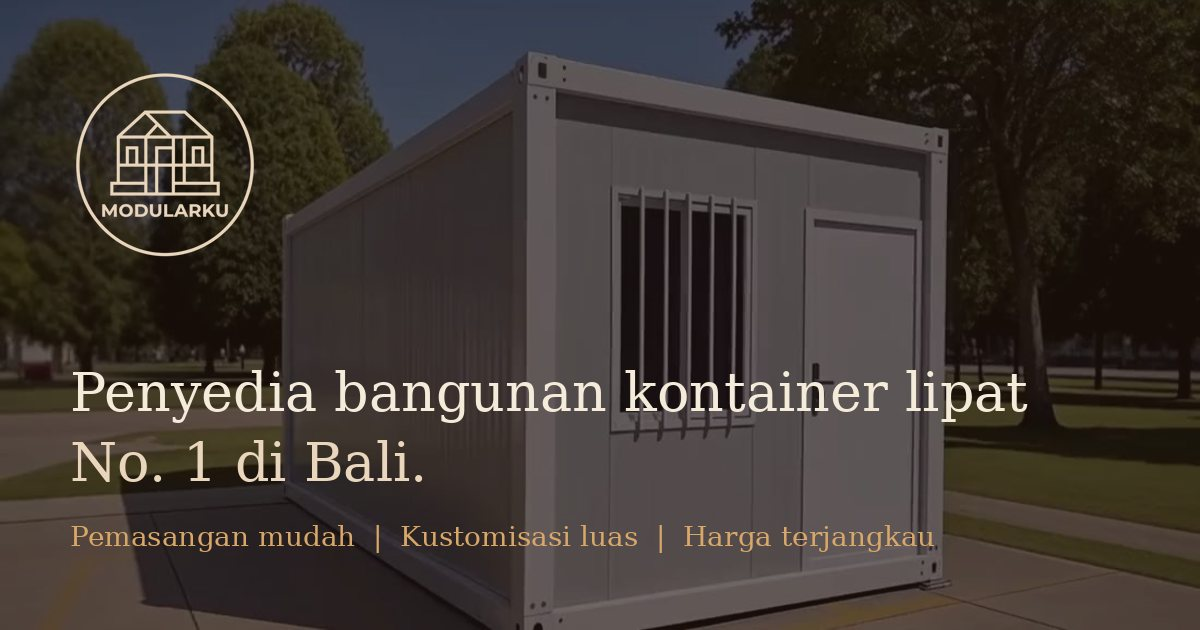
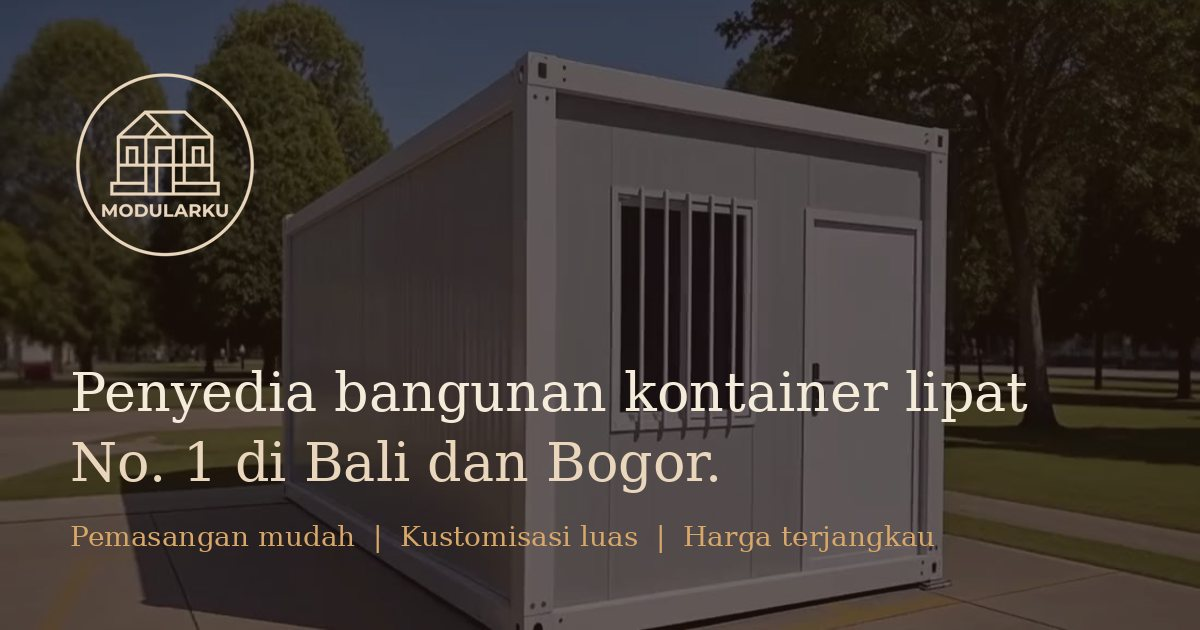
contact and wording changes

Changed region(s): [[0.3392, 0.6937, 0.5858, 0.7841]]

diff --git a/index.html b/index.html
@@ -3,22 +3,22 @@
 <head>
 <meta charset="utf-8">
 <meta name="viewport" content="width=device-width, initial-scale=1, viewport-fit=cover">
-<title>Modularku – Bangunan Kontainer di Bali | Rumah Kontainer Lipat & Kustom</title>
-<meta name="description" content="Modularku, penyedia bangunan kontainer di Bali: rumah kontainer lipat & bongkar pasang, pemasangan mudah, kustomisasi luas (kafe, kost, hotel kapsul, musholla), harga lebih terjangkau. / Container building provider in Bali: foldable and knock-down container houses, easy installation, wide customization, affordable.">
-<meta name="keywords" content="bangunan kontainer Bali, rumah kontainer Bali, container building Bali, kontraktor Bali, penyedia bangunan Indonesia, rumah kontainer lipat, bangunan modular, hotel kapsul, kafe kontainer, kost kontainer, musholla mezanin">
+<title>Modularku – Bangunan Kontainer di Bali & Bogor | Rumah Kontainer Lipat & Kustom</title>
+<meta name="description" content="Modularku, penyedia bangunan kontainer di Bali dan Bogor: rumah kontainer lipat & bongkar pasang, pemasangan mudah, kustomisasi luas (kafe, kost, hotel kapsul, musholla), harga lebih terjangkau. / Container building provider in Bali and Bogor: foldable and knock-down container houses, easy installation, wide customization, affordable.">
+<meta name="keywords" content="bangunan kontainer Bali, rumah kontainer Bali, bangunan kontainer Bogor, rumah kontainer Bogor, container building Bali, container building Bogor, kontraktor Bali, kontraktor Bogor, penyedia bangunan Indonesia, rumah kontainer lipat, bangunan modular, hotel kapsul, kafe kontainer, kost kontainer, musholla mezanin">
 <meta name="robots" content="index, follow, max-image-preview:large">
 <link rel="canonical" href="https://modularku.com/">
 <link rel="icon" type="image/png" href="favicon.png"><link rel="apple-touch-icon" href="favicon.png">
 <meta name="theme-color" content="#24150E">
-<meta name="geo.region" content="ID-BA"><meta name="geo.placename" content="Bali, Indonesia">
+<meta name="geo.region" content="ID-BA;ID-JB"><meta name="geo.placename" content="Bali and Bogor, Indonesia">
 <meta property="og:type" content="website"><meta property="og:url" content="https://modularku.com/"><meta property="og:image" content="https://modularku.com/og-image.jpg"><meta property="og:image:width" content="1200"><meta property="og:image:height" content="630"><meta name="twitter:image" content="https://modularku.com/og-image.jpg"><meta property="og:site_name" content="Modularku">
-<meta property="og:title" content="Modularku – Penyedia Bangunan Kontainer Lipat di Bali">
+<meta property="og:title" content="Modularku – Penyedia Bangunan Kontainer Lipat di Bali dan Bogor">
 <meta property="og:description" content="Pemasangan mudah, kustomisasi luas, harga lebih terjangkau dibanding bangunan konvensional.">
 <meta property="og:locale" content="id_ID"><meta property="og:locale:alternate" content="en_US">
 <meta name="twitter:card" content="summary_large_image">
 <script type="application/ld+json">
 {"@context":"https://schema.org","@graph":[
-{"@type":["GeneralContractor","LocalBusiness"],"@id":"https://modularku.com/#business","url":"https://modularku.com/","image":"https://modularku.com/og-image.jpg","name":"Modularku","description":"Penyedia bangunan kontainer lipat dan modular kustom di Bali. Container building provider in Bali.","areaServed":[{"@type":"AdministrativeArea","name":"Bali"},{"@type":"Country","name":"Indonesia"}],"address":{"@type":"PostalAddress","addressRegion":"Bali","addressCountry":"ID"},"telephone":"+6285739593611","knowsLanguage":["id","en"],"priceRange":"Rp 33.000.000+",
+{"@type":["GeneralContractor","LocalBusiness"],"@id":"https://modularku.com/#business","url":"https://modularku.com/","image":"https://modularku.com/og-image.jpg","name":"Modularku","description":"Penyedia bangunan kontainer lipat dan modular kustom di Bali dan Bogor. Container building provider in Bali and Bogor.","areaServed":[{"@type":"AdministrativeArea","name":"Bali"},{"@type":"City","name":"Bogor"},{"@type":"Country","name":"Indonesia"}],"location":[{"@type":"Place","name":"Modularku Bali","address":{"@type":"PostalAddress","addressRegion":"Bali","addressCountry":"ID"}},{"@type":"Place","name":"Modularku Bogor","address":{"@type":"PostalAddress","addressLocality":"Bogor","addressRegion":"Jawa Barat","addressCountry":"ID"}}],"telephone":["+6285739593611","+628557074468","+6289639024404"],"knowsLanguage":["id","en"],"priceRange":"Rp 33.000.000+",
 "hasOfferCatalog":{"@type":"OfferCatalog","name":"Bangunan kontainer / Container buildings","itemListElement":[
 {"@type":"Offer","itemOffered":{"@type":"Product","name":"Rumah Kontainer Bongkar Pasang"},"priceCurrency":"IDR","price":"35000000"},
 {"@type":"Offer","itemOffered":{"@type":"Product","name":"Rumah Kontainer Lipat"},"priceCurrency":"IDR","price":"33000000"},
@@ -437,7 +437,7 @@ main,footer{transition:opacity .35s}
     <div class="veil"></div>
   </div>
   <div class="wrap in">
-    <h1><span class="ln"><span data-t="h1a">Penyedia bangunan kontainer lipat</span></span><span class="ln"><span data-t="h1b">No. 1 di Bali.</span></span></h1>
+    <h1><span class="ln"><span data-t="h1a">Penyedia bangunan kontainer lipat</span></span><span class="ln"><span data-t="h1b">No. 1 di Bali dan Bogor.</span></span></h1>
     <p class="sub" data-t="hsub">Pemasangan mudah, kustomisasi luas, dan harga lebih terjangkau dibanding bangunan konvensional.</p>
     <div class="cta">
       <a class="btn" data-wa data-icon="wa"><span data-t="wa">Chat WhatsApp</span></a>
@@ -553,7 +553,7 @@ main,footer{transition:opacity .35s}
 <details><summary><span><span lang="id">Bisa dikustom untuk kafe, kost, atau hotel kapsul?</span><span lang="en">Can it be customized as a cafe, boarding house or capsule hotel?</span></span><i></i></summary><p class="ans"><span lang="id">Bisa. Kami membuat kafe, restoran, rumah kost, hotel kapsul, villa glamping, mess pekerja, hingga musholla mezanin sesuai kebutuhan.</span><span lang="en">Yes. We build cafes, restaurants, boarding houses, capsule hotels, glamping villas, worker quarters and even mezzanine prayer halls.</span></p></details>
 <details><summary><span><span lang="id">Seberapa mudah pemasangannya?</span><span lang="en">How easy is installation?</span></span><i></i></summary><p class="ans"><span lang="id">Tanpa alat berat khusus. Unit lipat bisa berdiri dalam hitungan jam.</span><span lang="en">No special heavy equipment needed. Foldable units can stand within hours.</span></p></details>
 <details><summary><span><span lang="id">Apakah lebih murah dari bangunan konvensional?</span><span lang="en">Is it cheaper than traditional building?</span></span><i></i></summary><p class="ans"><span lang="id">Biaya pembangunan dan pengiriman lebih hemat dibanding rumah konvensional karena dibuat di pabrik dan dikirim ringkas.</span><span lang="en">Construction and shipping costs are lower than a conventional house because units are factory-made and shipped compactly.</span></p></details>
-<details><summary><span><span lang="id">Melayani area mana?</span><span lang="en">Which areas do you serve?</span></span><i></i></summary><p class="ans"><span lang="id">Kami berbasis di Bali. Hubungi kami lewat WhatsApp untuk menanyakan pengiriman ke lokasi Anda di Indonesia.</span><span lang="en">We’re based in Bali. Message us on WhatsApp to ask about delivery to your location in Indonesia.</span></p></details>
+<details><summary><span><span lang="id">Melayani area mana?</span><span lang="en">Which areas do you serve?</span></span><i></i></summary><p class="ans"><span lang="id">Kami berbasis di Bali dan Bogor. Hubungi kami lewat WhatsApp untuk menanyakan pengiriman ke lokasi Anda di Indonesia.</span><span lang="en">We’re based in Bali and Bogor. Message us on WhatsApp to ask about delivery to your location in Indonesia.</span></p></details>
     </div>
   </div>
 </section>
@@ -563,7 +563,7 @@ main,footer{transition:opacity .35s}
   <div class="wrap grid">
     <div>
       <h2 class="rv" data-t="con_h">Ngobrol dulu, gratis.</h2>
-      <p class="lead rv" style="--d:.1s" data-t="con_p">Ceritakan ide dan lokasi Anda. Kami siap membantu.</p>
+      <p class="lead rv" style="--d:.1s" data-t="con_p">Ceritakan ide dan lokasi Anda. Tim kami di Bali dan Bogor siap membantu.</p>
       <div class="acts rv" style="--d:.2s"><a class="btn" data-wa data-icon="wa"><span data-t="wa">Chat WhatsApp</span></a></div>
     </div>
     <div class="people rv" style="--d:.15s" id="people"></div>
@@ -573,7 +573,7 @@ main,footer{transition:opacity .35s}
 
 <footer>
   <div class="wrap row">
-    <div class="f"><span class="logo" id="logoFull"></span><div><strong style="font-family:var(--display);font-weight:450;font-size:1.3rem;color:var(--linen)">Modularku</strong><p data-t="foot">Penyedia bangunan kontainer di Bali.</p></div></div>
+    <div class="f"><span class="logo" id="logoFull"></span><div><strong style="font-family:var(--display);font-weight:450;font-size:1.3rem;color:var(--linen)">Modularku</strong><p data-t="foot">Penyedia bangunan kontainer di Bali dan Bogor.</p></div></div>
     <p>© 2026 Modularku. <span data-t="rights">Hak cipta dilindungi.</span></p>
   </div>
 </footer>
@@ -620,10 +620,11 @@ main,footer{transition:opacity .35s}
    EDIT HERE — contact details
    ========================================================= */
 var CONTACTS=[
+  {name:"Gheyan",role:{id:"Konsultan Bogor",en:"Bogor consultant"},phone:"0896-3902-4404",wa:"6289639024404"},
   {name:"Tasya",role:{id:"Konsultan Bali",en:"Bali consultant"},phone:"0857-3959-3611",wa:"6285739593611"},
   {name:"Hermawan",role:{id:"Konsultan Bali",en:"Bali consultant"},phone:"0855-7074-468",wa:"628557074468"}
 ];
-var WA_MAIN=CONTACTS[0].wa;
+var WA_MAIN="6285739593611"; // main WhatsApp button (Tasya). Change to "6289639024404" to use Gheyan.
 
 /* ---------- images ---------- */
 var IMG={
@@ -659,7 +660,7 @@ var T={
  id:{
   nav_benefits:"Keunggulan",nav_products:"Produk",nav_custom:"Kustom",nav_process:"Proses",nav_contact:"Kontak",
   brochure:"Lihat brosur",wa:"Chat WhatsApp",scroll:"Gulir",
-  h1a:"Penyedia bangunan kontainer lipat",h1b:"No. 1 di Bali.",
+  h1a:"Penyedia bangunan kontainer lipat",h1b:"No. 1 di Bali dan Bogor.",
   hsub:"Pemasangan mudah, kustomisasi luas, dan harga lebih terjangkau dibanding bangunan konvensional.",
   fold_h:"Mudah dipasang. Bebas dikustom. Lebih hemat.",fold_lead:"Geser untuk melihat satu unit terbuka dalam hitungan menit.",
   svg_title:"Animasi unit kontainer lipat dari terlipat sampai terbuka",svg_w:"Lebar 2,5 m (tampak ujung)",
@@ -669,15 +670,15 @@ var T={
   build_h:"Apa yang ingin Anda bangun?",build_p:"Ketuk satu, kami lanjutkan di WhatsApp.",
   proc_h:"Dari ide sampai berdiri",
   bro_h:"Brosur lengkap",bro_p:"Spesifikasi, harga, dan galeri dalam satu file.",bro_open:"Buka brosur",dl:"Unduh PDF",
-  con_h:"Ngobrol dulu, gratis.",con_p:"Ceritakan ide dan lokasi Anda. Kami siap membantu.",
-  foot:"Penyedia bangunan kontainer di Bali.",faq_h:"Pertanyaan umum",faq_lead:"Jawaban singkat sebelum Anda menghubungi kami.",rights:"Hak cipta dilindungi.",
+  con_h:"Ngobrol dulu, gratis.",con_p:"Ceritakan ide dan lokasi Anda. Tim kami di Bali dan Bogor siap membantu.",
+  foot:"Penyedia bangunan kontainer di Bali dan Bogor.",faq_h:"Pertanyaan umum",faq_lead:"Jawaban singkat sebelum Anda menghubungi kami.",rights:"Hak cipta dilindungi.",
   day:"Siang",night:"Malam",page:"Halaman",of:"dari",ask:"Tanya produk ini",open:"Perbesar",
   msg:"Halo Modularku, saya tertarik dengan {x}. Boleh minta info lebih lanjut?",msg_def:"bangunan modular Anda"
  },
  en:{
   nav_benefits:"Benefits",nav_products:"Products",nav_custom:"Custom",nav_process:"Process",nav_contact:"Contact",
   brochure:"View brochure",wa:"Chat on WhatsApp",scroll:"Scroll",
-  h1a:"The #1 foldable container",h1b:"building provider in Bali.",
+  h1a:"The #1 foldable container",h1b:"building provider in Bali and Bogor.",
   hsub:"Easy installation, wide customization, and more affordable than traditional buildings.",
   fold_h:"Easy to install. Free to customize. Better value.",fold_lead:"Drag to watch one unit open up in minutes.",
   svg_title:"Animation of a foldable container unit from folded to open",svg_w:"Width 2.5 m (end view)",
@@ -687,8 +688,8 @@ var T={
   build_h:"What would you like to build?",build_p:"Tap one and we’ll continue on WhatsApp.",
   proc_h:"From idea to standing",
   bro_h:"The full brochure",bro_p:"Specs, prices and gallery in one file.",bro_open:"Open brochure",dl:"Download PDF",
-  con_h:"Let’s talk, free of charge.",con_p:"Tell us your idea and location. We’re ready to help.",
-  foot:"Container building provider in Bali.",faq_h:"Common questions",faq_lead:"Quick answers before you get in touch.",rights:"All rights reserved.",
+  con_h:"Let’s talk, free of charge.",con_p:"Tell us your idea and location. Our teams in Bali and Bogor are ready to help.",
+  foot:"Container building provider in Bali and Bogor.",faq_h:"Common questions",faq_lead:"Quick answers before you get in touch.",rights:"All rights reserved.",
   day:"Day",night:"Night",page:"Page",of:"of",ask:"Ask about this unit",open:"Enlarge",
   msg:"Hello Modularku, I’m interested in {x}. Could you share more details?",msg_def:"your modular buildings"
  }
@@ -794,7 +795,7 @@ function applyStatic(){
   $$("[data-wa]").forEach(function(a){a.href=waLink(a.dataset.topic?a.dataset.topic:null);a.target="_blank";a.rel="noopener"});
   $("#lang").dataset.l=lang;
   $$("#lang button").forEach(function(b){b.setAttribute("aria-pressed",String(b.dataset.l===lang))});
-  document.title=lang==="id"?"Modularku – Bangunan Kontainer di Bali | Rumah Kontainer Lipat & Kustom":"Modularku – Container Building Provider in Bali | Foldable & Custom";
+  document.title=lang==="id"?"Modularku – Bangunan Kontainer di Bali & Bogor | Rumah Kontainer Lipat & Kustom":"Modularku – Container Building Provider in Bali & Bogor | Foldable & Custom";
 }
 function renderFacts(){
   $("#facts").innerHTML=FACTS.map(function(f,i){return '<li class="rv in"><h3>'+L(f.t)+'</h3><p>'+L(f.p)+'</p></li>'}).join("");
